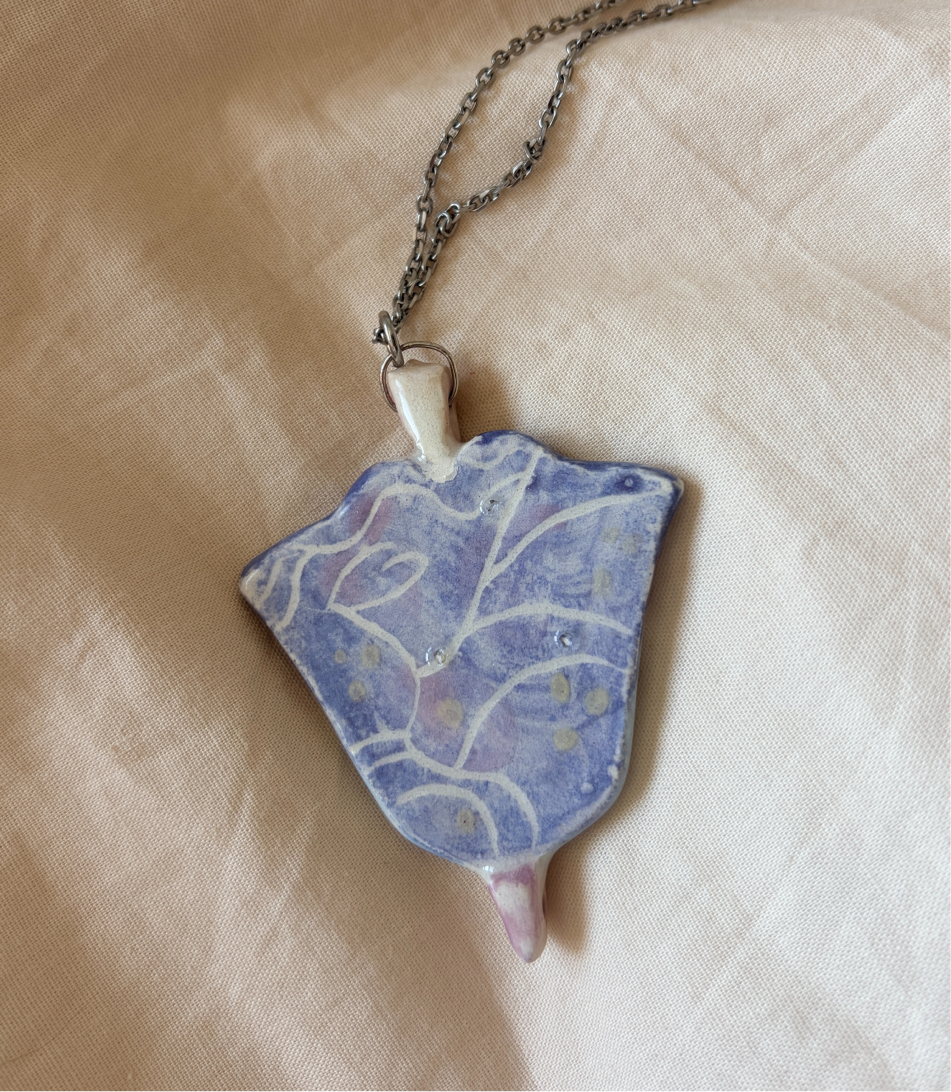
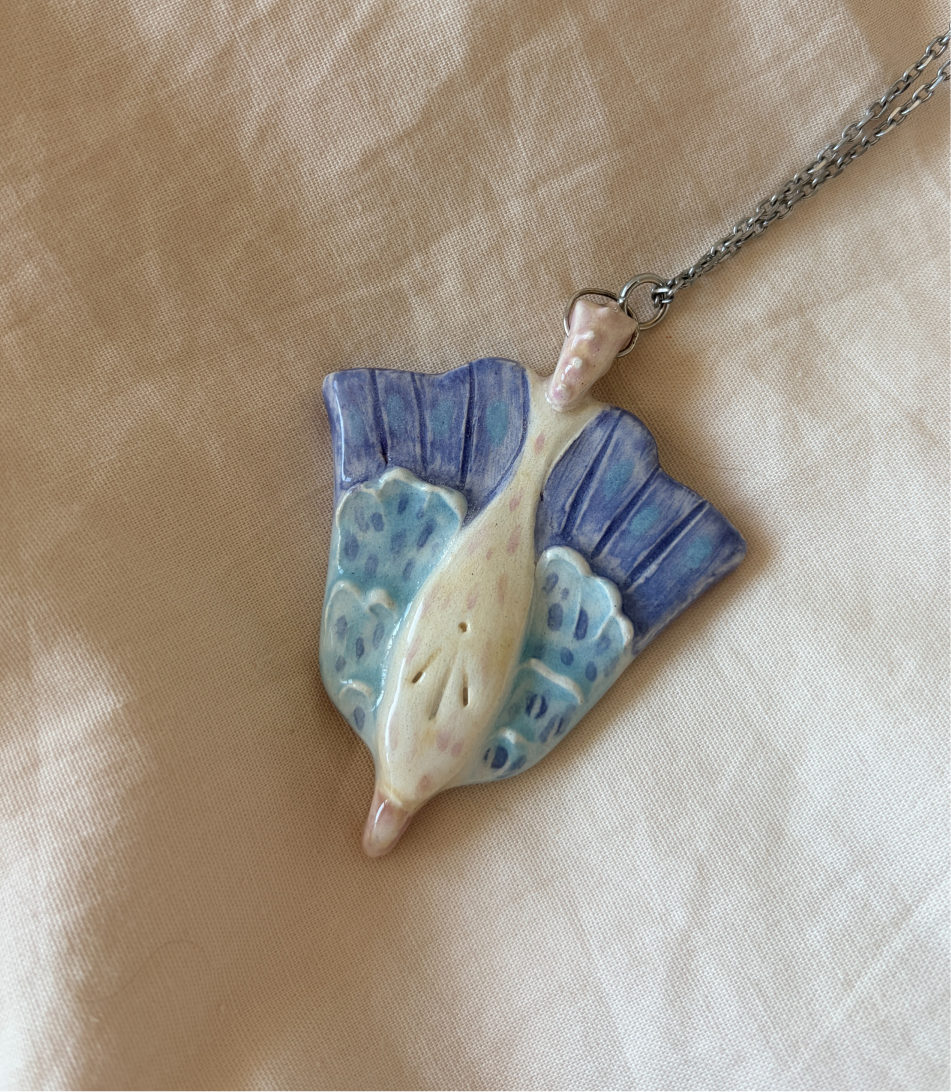
collar

diff --git a/products.js b/products.js
@@ -15,7 +15,7 @@ const PRODUCTS = {
     weight: 0.36, productionCost: 1, hoursWorked: 1, packingEfficiency: 0.10,
     materials: 'Ceramic',
     description: `Inspired by contemporary folk aesthetics, this handcrafted ceramic pendant brings a quiet sense of originality to any outfit. Light enough for everyday wear, yet expressive enough to become a signature piece.`,
-    images: ['images/flying-01.png', 'images/flying-02.png', 'images/flying-03.png'],
+    images: ['images/flying-01.png', 'images/flying-02.png', 'images/flying-03.png', 'images/flying-04.png'],
   },
 
   // ─── GUARDIANAS ────────────────────────────────────────────────
